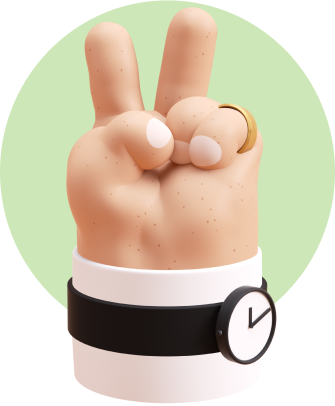
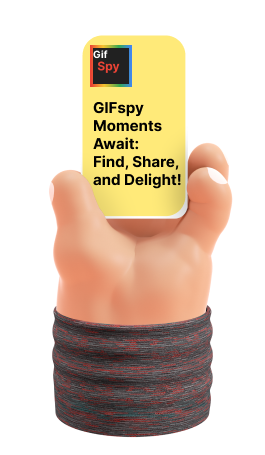
improve design + add animations to gif pages and loading

diff --git a/src/components/general/GifViewBig.tsx b/src/components/general/GifViewBig.tsx
@@ -1,17 +1,47 @@
 //import libaries
 import { GifType } from "../../types/GifTypes";
 import { useSpring, animated } from "@react-spring/web";
-import { heartAnimationConfig } from "../../config/animationsConfigs";
+import {
+  embedAnimationConfig,
+  heartAnimationConfig,
+} from "../../config/animationsConfigs";
+import { shareAnimationConfig } from "../../config/animationsConfigs";
 import { FaRegHeart, FaHeart } from "react-icons/fa";
 import { useState } from "react";
-import { IoShareOutline } from "react-icons/io5";
+import { IoShareOutline, IoShare } from "react-icons/io5";
 import { FaCode } from "react-icons/fa6";
+import { handleToggleFavourite } from "../../utils/handleToggleFavourite";
 //main component
+
 export default function GifViewBig(props: GifType) {
-  // State to manage the hover effect
-  const [isHovered, setIsHovered] = useState(false);
+  //useState
+  const [isFavoriteHovered, setIsFavoriteHovered] = useState<boolean>(false);
+  const [isShareHovered, setIsShareHovered] = useState<boolean>(false);
+  const [isEmbedHovered, setIsEmbedHovered] = useState<boolean>(false);
+
+  //check if isFavorites
+  const [isFavourite, setIsFavourite] = useState<boolean>(
+    JSON.parse(localStorage.getItem("favourites") || "[]").includes(props.id)
+  );
   //heart animation config
   const heartAnimation = useSpring(heartAnimationConfig);
+  const shareAnimation = useSpring(shareAnimationConfig);
+  const embedAnimation = useSpring(embedAnimationConfig);
+  //handle favorite
+  const handleFavorite = () => {
+    handleToggleFavourite(props.id);
+    setIsFavourite(!isFavourite);
+  };
+  //manage icons changes
+  const heartIcon =
+    isFavoriteHovered || isFavourite ? (
+      <FaHeart className="text-red-600" />
+    ) : (
+      <FaRegHeart />
+    );
+  const shareIcon = isShareHovered ? <IoShare /> : <IoShareOutline />;
+
+  //
   return (
     <>
       <div className="container w-full p-2 mx-auto text-white ">
@@ -20,15 +50,15 @@ export default function GifViewBig(props: GifType) {
             <div className="flex flex-row gap-2 ">
               <img className=" w-[4rem] " src={props.user?.avatar_url} alt="" />
               <div className=" w-fit">
-                <p> {props.user?.username} </p>
-                <p> {props.user?.display_name} </p>
+                <p className="font-bold "> {props.user?.username} </p>
+                <p className="text-gray-400 "> {props.user?.display_name} </p>
               </div>
             </div>
             <div>
-              {props.user.description && (
-                <p className="text-sm font-semibold">User Description:</p>
+              {props.user?.description && (
+                <p className="font-semibold">Who am I?</p>
               )}
-              <p> {props.user?.description} </p>
+              <p className="text-sm "> {props.user?.description} </p>
             </div>
           </div>
           <div className="flex flex-col justify-center w-full ">
@@ -38,27 +68,42 @@ export default function GifViewBig(props: GifType) {
           <div className=" w-[10rem] ">
             <div className="flex flex-col gap-3 pt-8 pl-8 text-2xl ">
               <button
+                onClick={handleFavorite}
                 className={`flex flex-row items-center gap-2 ${
-                  isHovered ? "scale-110" : ""
+                  isFavoriteHovered ? "scale-110" : ""
                 } `}
-                onMouseEnter={() => setIsHovered(true)}
-                onMouseLeave={() => setIsHovered(false)}
+                onMouseEnter={() => setIsFavoriteHovered(true)}
+                onMouseLeave={() => setIsFavoriteHovered(false)}
               >
-                {isHovered ? (
-                  <animated.div style={heartAnimation}>
-                    <FaHeart className="text-red-600" />
-                  </animated.div>
-                ) : (
-                  <FaRegHeart />
-                )}
+                <animated.div style={heartAnimation}>{heartIcon}</animated.div>
+
                 <span className="pb-1 text-base font-semibold ">Favorite</span>
               </button>
-              <button className="flex flex-row items-center gap-2 hover:scale-110">
-                <IoShareOutline />
-                <span className="text-base font-semibold ">Share</span>
+              <button
+                onMouseEnter={() => {
+                  setIsShareHovered(true);
+                }}
+                onMouseLeave={() => {
+                  setIsShareHovered(false);
+                }}
+                className="flex flex-row items-center gap-2 group "
+              >
+                <animated.div style={isShareHovered ? shareAnimation : {}}>
+                  {shareIcon}
+                </animated.div>
+
+                <span className="text-base font-semibold group-hover:scale-110 ">
+                  Share
+                </span>
               </button>
-              <button className="flex flex-row items-center gap-2 hover:scale-110">
-                <FaCode />
+              <button
+                onMouseEnter={() => setIsEmbedHovered(true)}
+                onMouseLeave={() => setIsEmbedHovered(false)}
+                className="flex flex-row items-center gap-2 hover:scale-110"
+              >
+                <animated.div style={isEmbedHovered ? embedAnimation : {}}>
+                  <FaCode />
+                </animated.div>
                 <span className="pb-1 text-base font-semibold ">Embed</span>
               </button>
             </div>

diff --git a/src/sections/home/GifsView.tsx b/src/sections/home/GifsView.tsx
@@ -7,6 +7,7 @@ import Masonry from "react-masonry-css";
 import { breakpointColumns } from "../../config/breakpointColumns";
 import { useEffect } from "react";
 import { useToggleSwitch } from "../../hooks/context/useToggleSwith";
+import { OrbitProgress, ThreeDot } from "react-loading-indicators";
 
 //main component
 export default function GifsView() {
@@ -62,11 +63,30 @@ export default function GifsView() {
             )}
           </Masonry>
         )}
-        {isLoading && <p>Loading</p>}
-        {isError && <p>{error.message} </p>}
-        {isFetchingNextPage && <p>Loading...</p>}
-        {!hasNextPage && <p>No more GIFs to load</p>}
+        {isLoading && (
+          <div className="fixed transform -translate-x-1/2 -translate-y-1/2 top-3/4 left-1/2">
+            <ThreeDot
+              variant="bob"
+              color="#EA4335"
+              size="large"
+              text="Loding"
+              textColor=""
+            />
+          </div>
+        )}
+
+        {isFetchingNextPage && (
+          <div className="fixed transform -translate-x-1/2 -translate-y-1/2 bottom-10 left-1/2">
+            <OrbitProgress
+              color="#EA4335"
+              size="large"
+              text="loading"
+              textColor=""
+            />
+          </div>
+        )}
       </div>
+      {isError && <p>{error.message} </p>}
     </div>
   );
 }

diff --git a/src/components/home/ToggleSwitch.tsx b/src/components/home/ToggleSwitch.tsx
@@ -15,20 +15,34 @@ export default function ToggleSwitch() {
 
   return (
     <>
-      <div className="flex flex-col items-center justify-end w-1/4 ">
+      <div className="flex flex-col items-center justify-end w-1/4 mb-2 ">
+        <div
+          className={` mb-1 font-semibold  ${
+            switchStatus === "stickers" ? "text-white" : "text-gray-500"
+          } `}
+        >
+          <p>Stickers</p>
+        </div>
         <div
           onClick={toggleSwitch}
           className="bg-[#434141]  h-[6rem] justify-end flex flex-col rounded-full cursor-pointer  "
         >
           <div className="flex flex-col gap-2 ">
             <motion.button
-              className="rounded-full w-[3rem] h-[3rem] text-5xl  bg-[#EA4335] text-white"
+              className="rounded-full w-[3rem] h-[3rem] text-4xl flex flex-row justify-center items-center  bg-[#EA4335] text-white"
               animate={{ y: switchStatus === "gifs" ? 2 : -50 }}
               transition={{ duration: 0.2 }}
             >
               {switchStatus === "gifs" ? <MdGif /> : <RiEmojiStickerLine />}
             </motion.button>
           </div>
+        </div>
+        <div
+          className={` mt-1 font-semibold  ${
+            switchStatus === "gifs" ? "text-white" : "text-gray-500"
+          } `}
+        >
+          <p>Gifs</p>
         </div>
       </div>
     </>

diff --git a/src/sections/home/Hero.tsx b/src/sections/home/Hero.tsx
@@ -10,15 +10,15 @@ export default function Hero() {
     <>
       <div className="bg-[#212121] py-10">
         <div className="container flex flex-row justify-between mx-auto ">
-          <div className="">
-            <img className=" w-[90%] " src={Hand} alt="Hnad" />
+          <div className="mx-12">
+            <img src={Hand} alt="Hnad" />
           </div>
           <div className="flex flex-col justify-center w-full gap-10 ">
             <div className="flex flex-col items-center gap-4">
               <h1 className="text-xl font-semibold text-white ">
                 GIFspy Moments Await: Find, Share, and Delight!
               </h1>
-              <p className="font-bold text-transparent uppercase custom-gradient text-8xl bg-gradient-to-r bg-clip-text w-fit ">
+              <p className="font-bold text-transparent uppercase custom-gradient text-8xl bg-gradient-to-r bg-clip-text w-fit">
                 gifspy
               </p>
             </div>

diff --git a/src/components/general/EmbedModal.tsx b/src/components/general/EmbedModal.tsx
@@ -13,8 +13,16 @@ export default function EmbedModal({ embedUrl, onClose }: ModalProps) {
   };
 
   return (
-    <div className="fixed inset-0 z-50 flex items-center justify-center bg-black bg-opacity-50">
-      <div className="p-8 bg-black rounded-lg opacity-85">
+    <div
+      onClick={onClose}
+      className="fixed inset-0 z-50 flex items-center justify-center bg-black bg-opacity-50"
+    >
+      <div
+        onClick={(e) => {
+          e.stopPropagation();
+        }}
+        className="p-8 bg-black rounded-lg opacity-85"
+      >
         <div className="flex flex-row justify-end">
           <button
             className="text-2xl text-white hover:text-red-500"

diff --git a/src/config/animationsConfigs.ts b/src/config/animationsConfigs.ts
@@ -26,3 +26,15 @@ export const slideSwitchAnimationConfig = {
   ],
   config: { mass: 1, tension: 500, friction: 50 },
 };
+export const shareAnimationConfig = {
+  from: { scaleY: 1 },
+  loop: {
+    to: [{ scaleY: 1.2 }, { scaleY: 0.9 }],
+  },
+};
+export const embedAnimationConfig = {
+  from: { scaleX: 1 },
+  loop: {
+    to: [{ scaleX: 1.2 }, { scaleX: 0.9 }],
+  },
+};

diff --git a/src/components/general/GifCard.tsx b/src/components/general/GifCard.tsx
@@ -43,7 +43,7 @@ export default function GifCard(props: ExtendedGifType) {
   const transitions = useTransition(isFavouriteGif, selectHeartAnimationConfig);
   //handel navigation to gif
   const handleGifNavigation = () => {
-    navigate(`/gifspy/${props.id}`);
+    navigate(`/gifspy/gif/${props.id}`);
   };
 
   return (

diff --git a/src/App.tsx b/src/App.tsx
@@ -13,11 +13,15 @@ const router = createBrowserRouter([
     element: <Home />,
   },
   {
+    path: "gifspy/gif/",
+    element: <Home />,
+  },
+  {
     path: "gifspy/favorites",
     element: <Favorites />,
   },
   {
-    path: "gifspy/:id",
+    path: "gifspy/gif/:id",
     element: <GifPage />,
   },
 ]);
